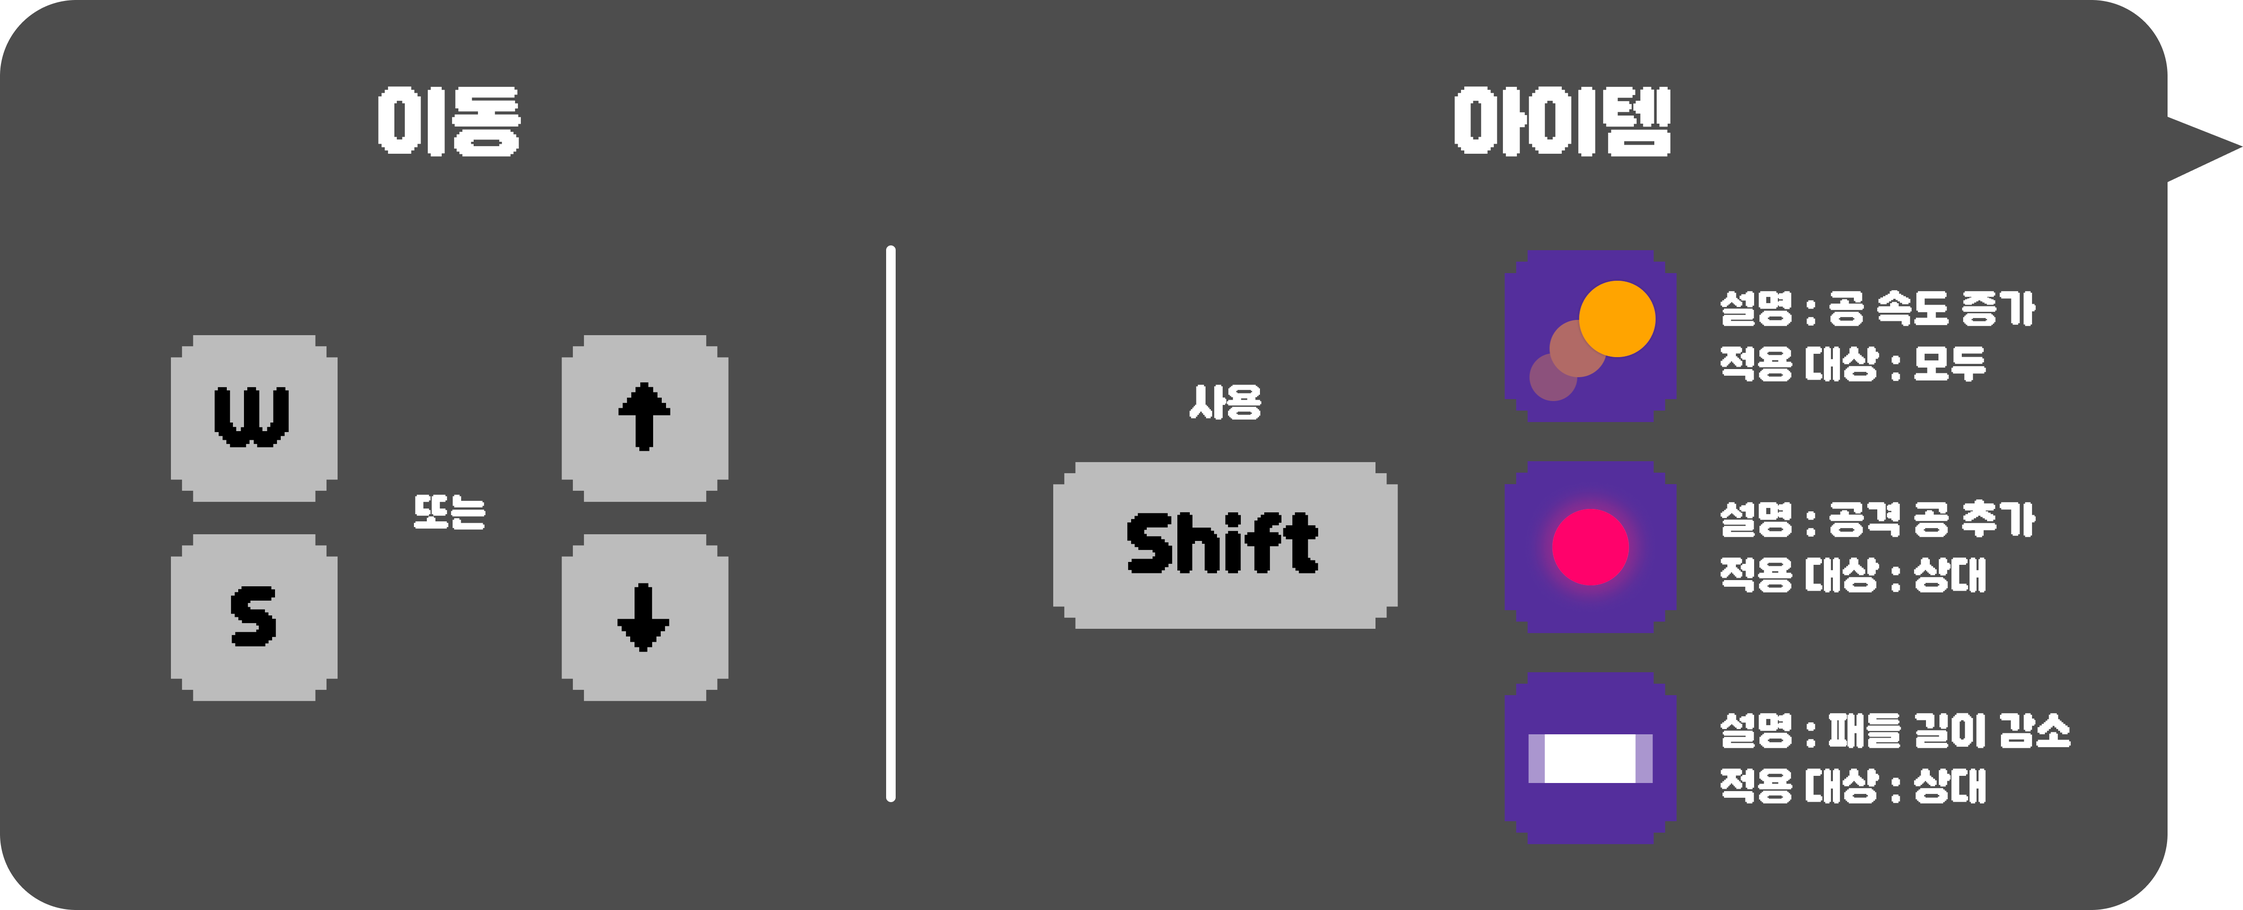
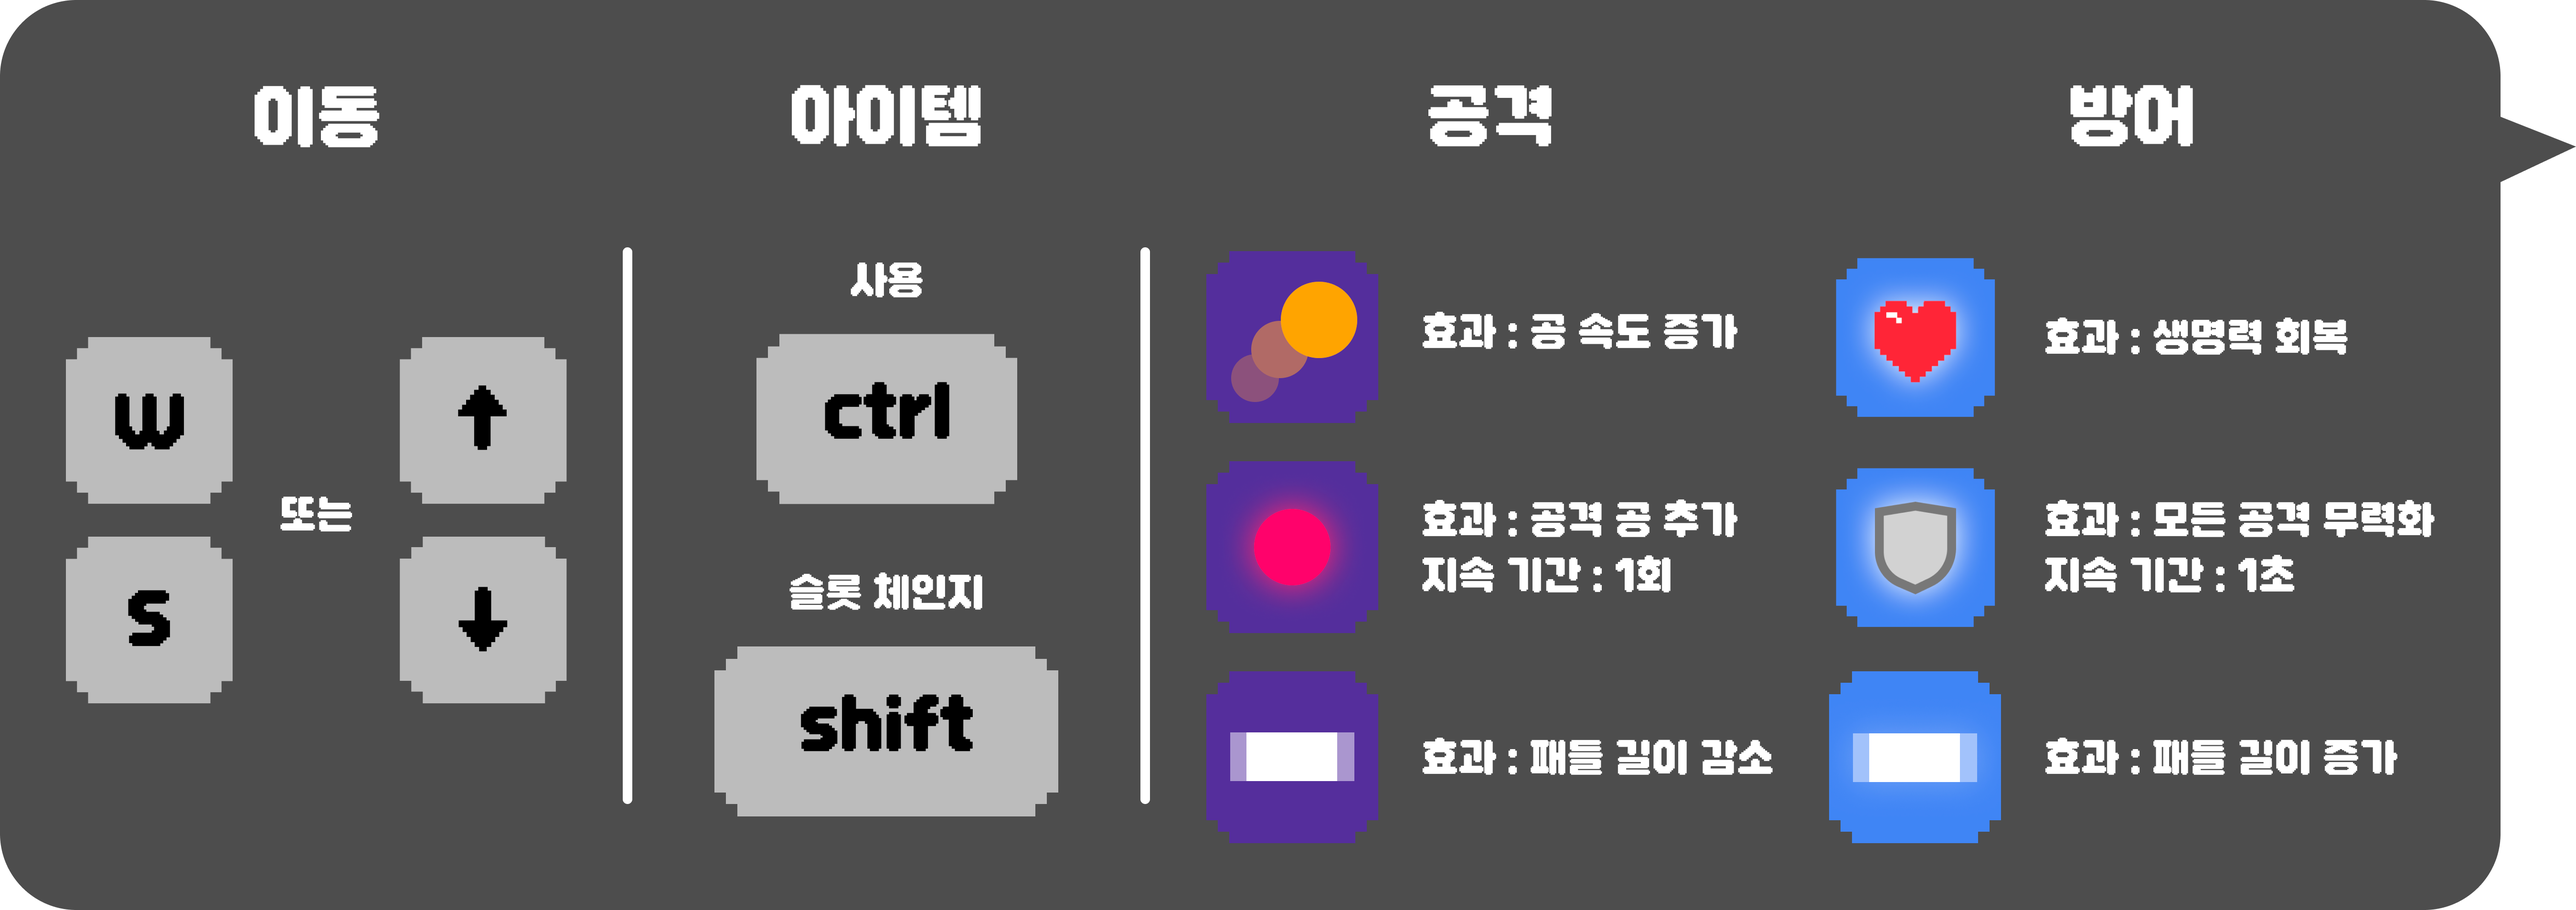
:art: design: 아이템 이미지 및 가이드 이미지 변경

diff --git a/srcs/FrontEnd/assets/css/header.css b/srcs/FrontEnd/assets/css/header.css
@@ -39,13 +39,13 @@
 
 #guide-image {
     display: none;
-    width: 540px;
-    height: 220px;
+    width: 675px;
+    height: 240px;
     background-image: url('../../assets/image/guide.png');
     background-size: cover;
     position: absolute;
     top: 0;
-    left: -540px;
+    left: -675px;
     z-index: 999;
 }
 
